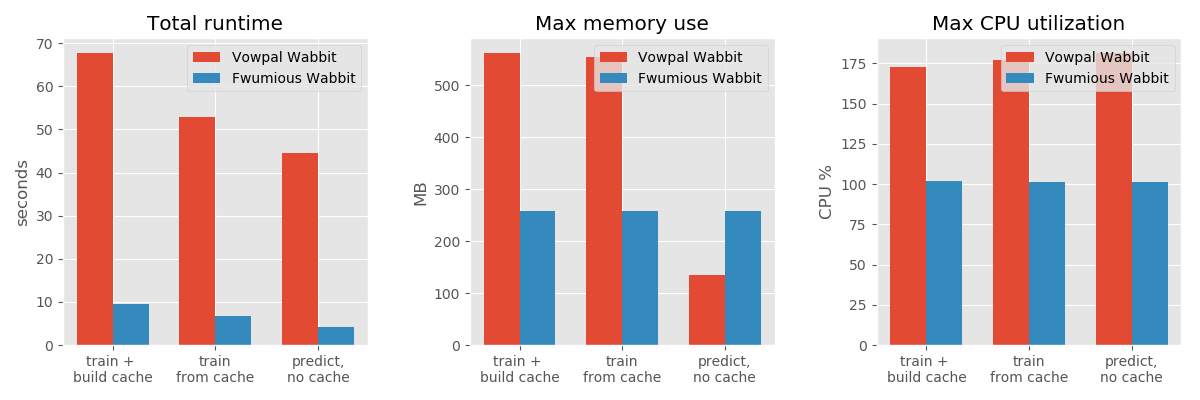
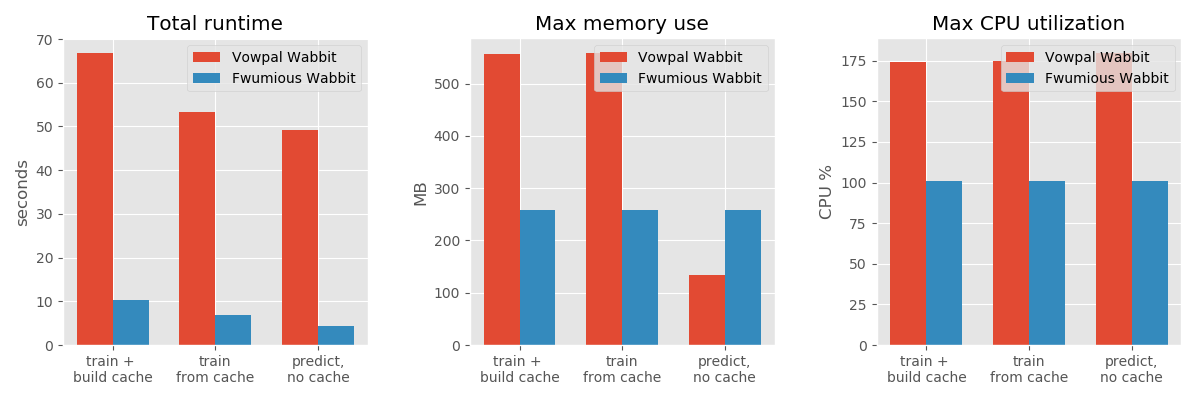
update benchmark results

diff --git a/BENCHMARK.md b/BENCHMARK.md
@@ -16,12 +16,12 @@ here are the results for 3 runs for each scenario, taking mean values:
 ![benchmark results](benchmark_results.png)
 Scenario|Runtime (seconds)|Memory (MB)|CPU %
 ----|----:|----:|----:
-vw train, no cache|67.72 | 562 | 172.87
-fw train, no cache|9.47 | 258 | 101.93
-vw train, using cache|52.76 | 554 | 177.30
-fw train, using cache|6.76 | 258 | 101.50
-vw predict, no cache|44.54 | 135 | 181.50
-fw predict, no cache|4.25 | 258 | 101.57
+vw train, no cache|66.82 | 556 | 174.33
+fw train, no cache|10.29 | 258 | 100.90
+vw train, using cache|53.37 | 558 | 174.70
+fw train, using cache|6.87 | 258 | 101.20
+vw predict, no cache|49.18 | 135 | 179.77
+fw predict, no cache|4.28 | 258 | 101.27
 
 
 ### Model equivalence
@@ -88,7 +88,7 @@ or, if you just want the numbers with less dependencies run:
 ```
 Physical cores: 28
 Total cores: 56
-Current Frequency: 1043.13Mhz
+Current Frequency: 1075.47Mhz
 ```
 ### System Information
 ```
